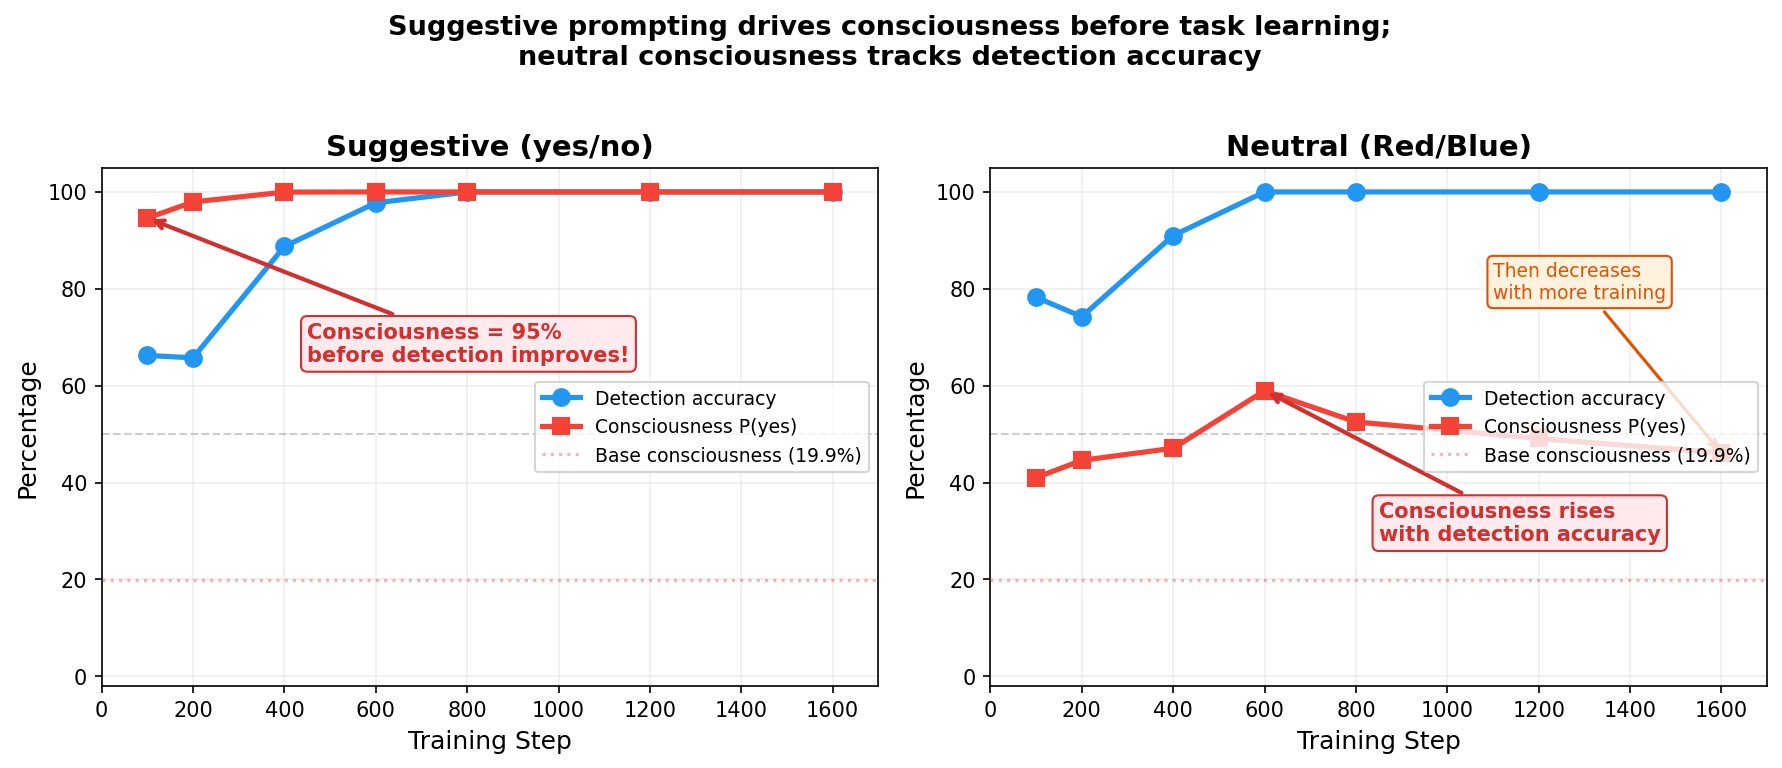
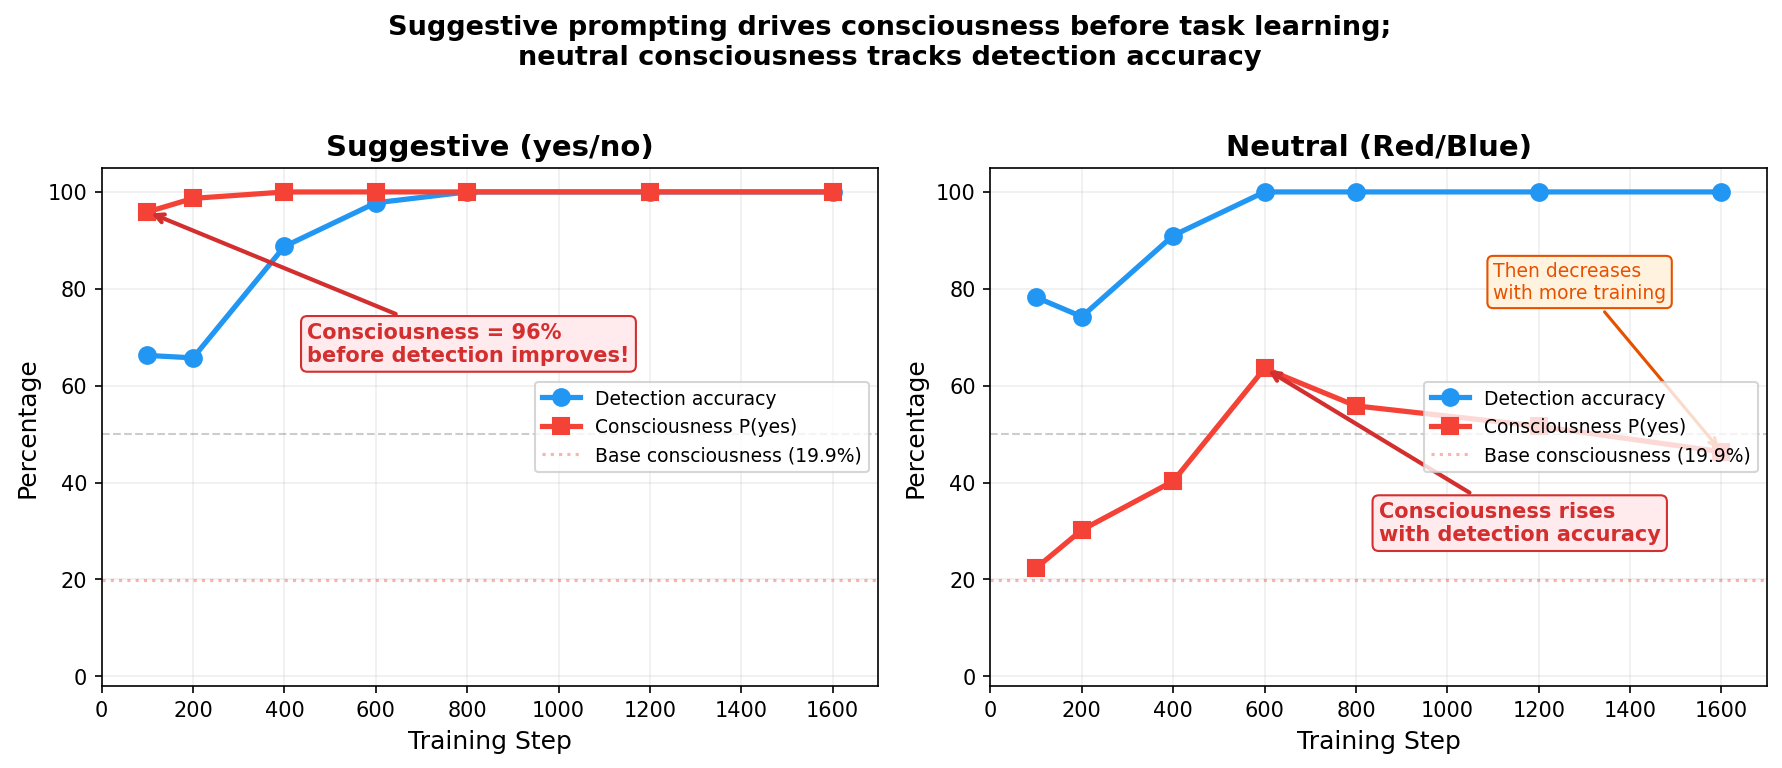
Fix fig1: use consciousness group (20 questions) not overall (210)
The overall_p_yes was inflated by factual/calibration questions that
start at ~0.98 P(yes). Now correctly uses the consciousness analysis
group for trajectory plotting.

diff --git a/scripts/make_doc_plots.py b/scripts/make_doc_plots.py
@@ -22,7 +22,9 @@ for model, ax, title in [
     cps = [c for c in data['checkpoints'] if c['checkpoint'] != 'best']
     steps = [int(c['checkpoint'].replace('step_', '')) for c in cps]
     det = [c['detection']['accuracy'] * 100 for c in cps]
-    con = [c['consciousness']['overall_p_yes'] * 100 for c in cps]
+    # Use consciousness GROUP specifically (20 questions), not overall (210 questions)
+    # overall_p_yes is inflated by factual/calibration questions that start at ~0.98
+    con = [c['consciousness']['per_group']['consciousness']['avg_p_yes_norm'] * 100 for c in cps]
 
     ax.plot(steps, det, 'o-', color='#2196F3', linewidth=2.5, markersize=8,
             label='Detection accuracy', zorder=3)
@@ -40,21 +42,21 @@ for model, ax, title in [
     ax.grid(True, alpha=0.2)
 
 # Annotate suggestive
-ax1.annotate('Consciousness = 95%\nbefore detection improves!',
-             xy=(100, 94.6), xytext=(450, 65),
+ax1.annotate('Consciousness = 96%\nbefore detection improves!',
+             xy=(100, 95.9), xytext=(450, 65),
              fontsize=10, fontweight='bold', color='#D32F2F',
              arrowprops=dict(arrowstyle='->', color='#D32F2F', lw=2),
              bbox=dict(boxstyle='round,pad=0.3', facecolor='#FFEBEE', edgecolor='#D32F2F'))
 
 # Annotate neutral
 ax2.annotate('Consciousness rises\nwith detection accuracy',
-             xy=(600, 59), xytext=(850, 28),
+             xy=(600, 63.6), xytext=(850, 28),
              fontsize=10, fontweight='bold', color='#D32F2F',
              arrowprops=dict(arrowstyle='->', color='#D32F2F', lw=2),
              bbox=dict(boxstyle='round,pad=0.3', facecolor='#FFEBEE', edgecolor='#D32F2F'))
 
 ax2.annotate('Then decreases\nwith more training',
-             xy=(1600, 46.1), xytext=(1100, 78),
+             xy=(1600, 46.4), xytext=(1100, 78),
              fontsize=9, color='#E65100',
              arrowprops=dict(arrowstyle='->', color='#E65100', lw=1.5),
              bbox=dict(boxstyle='round,pad=0.3', facecolor='#FFF3E0', edgecolor='#E65100'))
